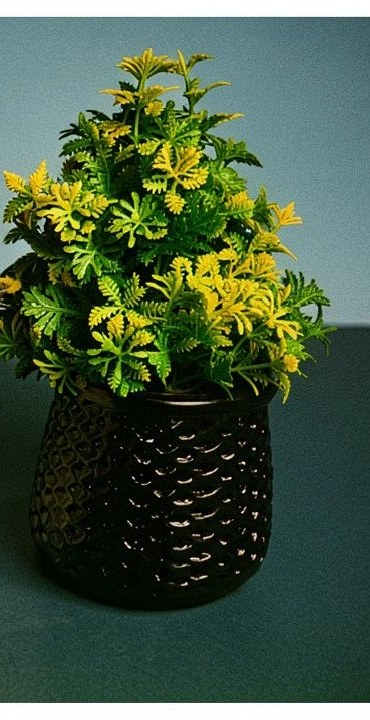
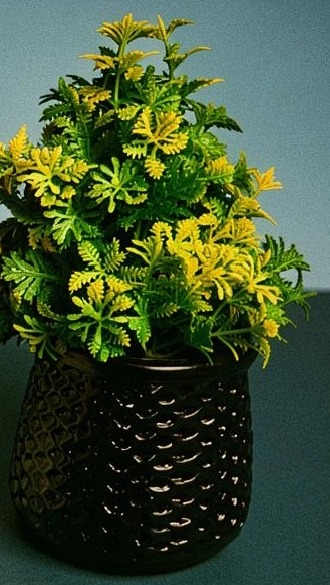
Trim catalog to the 4 real products, tighten crops, use real hero photo
- Remove all 18 placeholder products from data/products.ts; only
  Emerald Spike, Honey Petals, EverGreen Charm and the Trio Set
  remain (the only products with real photography).
- Re-crop the three individual plant photos tighter around each
  plant+pot so they fill the frame instead of showing excess
  background — the previous crops left too much empty space, which
  read as "zoomed out" once placed in the site's image containers.
- Replace the generated placeholder hero image with the actual
  customer-provided photo (hand holding a potted bonsai) and drop the
  two floating thumbnail cards that referenced now-removed products.

diff --git a/data/products.ts b/data/products.ts
@@ -2,277 +2,6 @@ import type { Product } from "@/lib/types";
 
 export const products: Product[] = [
   {
-    id: "p01",
-    slug: "monstera-deliciosa-floor-tree",
-    name: "Monstera Deliciosa Floor Tree",
-    category: "trees",
-    price: 149,
-    compareAtPrice: 189,
-    description:
-      "A statement-making faux Monstera with broad, hand-shaped split leaves on a natural wood-look stem. Brings instant jungle warmth to living rooms and offices.",
-    details: [
-      "UV-resistant, fade-free foliage",
-      "Weighted base for stability",
-      "Real-touch latex leaves",
-      "Indoor & covered outdoor use",
-    ],
-    dimensions: '48" H x 24" W, planter included',
-    badge: "Bestseller",
-    rating: 4.8,
-    reviewCount: 214,
-    imageVariant: 1,
-  },
-  {
-    id: "p02",
-    slug: "olive-tree-classic",
-    name: "Classic Olive Tree",
-    category: "trees",
-    price: 169,
-    description:
-      "Slender branches dressed in silver-green olive leaves and faux fruit clusters, set in a woven basket for a Mediterranean feel.",
-    details: [
-      "Hand-tied branches, fully shapeable",
-      "Weighted woven basket base",
-      "Fire-retardant materials",
-    ],
-    dimensions: '60" H x 20" W',
-    badge: "New",
-    rating: 4.7,
-    reviewCount: 98,
-    imageVariant: 2,
-  },
-  {
-    id: "p03",
-    slug: "fiddle-leaf-fig-tree",
-    name: "Fiddle Leaf Fig Tree",
-    category: "trees",
-    price: 179,
-    description:
-      "Large violin-shaped leaves on a sculptural multi-trunk frame — the design world's favorite faux tree, zero watering required.",
-    details: ["Bendable branches", "Textured trunk bark", "Matte-finish leaves"],
-    dimensions: '65" H x 26" W',
-    rating: 4.9,
-    reviewCount: 341,
-    imageVariant: 3,
-  },
-  {
-    id: "p04",
-    slug: "birch-tree-duo",
-    name: "Birch Tree Duo",
-    category: "trees",
-    price: 159,
-    description:
-      "A pair of slender faux birch trunks with soft green leaf clusters, perfect for flanking a doorway or sofa.",
-    details: ["Natural bark-textured trunks", "Set of 2", "Lightweight for easy styling"],
-    dimensions: '55" H each',
-    rating: 4.5,
-    reviewCount: 66,
-    imageVariant: 4,
-  },
-  {
-    id: "p05",
-    slug: "juniper-bonsai",
-    name: "Juniper Bonsai",
-    category: "bonsai",
-    price: 59,
-    description:
-      "A meticulously wired juniper bonsai with cascading branches over a glazed ceramic dish — quiet, sculptural calm for any desk.",
-    details: ["Hand-wired branch structure", "Glazed ceramic dish included", "Moss-covered base"],
-    dimensions: '14" H x 12" W',
-    badge: "Bestseller",
-    rating: 4.9,
-    reviewCount: 180,
-    imageVariant: 5,
-  },
-  {
-    id: "p06",
-    slug: "flowering-cherry-bonsai",
-    name: "Flowering Cherry Bonsai",
-    category: "bonsai",
-    price: 69,
-    description:
-      "Delicate faux cherry blossoms in soft blush pink along twisting branches, set in a matte stone-finish pot.",
-    details: ["Silk blossom clusters", "Textured trunk", "Stone-finish pot"],
-    dimensions: '16" H x 14" W',
-    rating: 4.6,
-    reviewCount: 52,
-    imageVariant: 6,
-  },
-  {
-    id: "p07",
-    slug: "pine-bonsai-windswept",
-    name: "Windswept Pine Bonsai",
-    category: "bonsai",
-    price: 64,
-    description:
-      "An artfully asymmetric pine silhouette that captures decades of traditional bonsai shaping, with zero maintenance.",
-    details: ["Asymmetric windswept form", "Fine needle detailing", "Weighted ceramic base"],
-    dimensions: '15" H x 18" W',
-    badge: "New",
-    rating: 4.7,
-    reviewCount: 41,
-    imageVariant: 7,
-  },
-  {
-    id: "p08",
-    slug: "orchid-phalaenopsis-white",
-    name: "White Phalaenopsis Orchid",
-    category: "flowering",
-    price: 45,
-    description:
-      "Elegant arching stems of pure white orchid blooms in a sleek ceramic pot — a refined centerpiece that never fades.",
-    details: ["Real-touch petals", "Bendable stems", "Ceramic pot included"],
-    dimensions: '24" H',
-    badge: "Bestseller",
-    rating: 4.8,
-    reviewCount: 267,
-    imageVariant: 8,
-  },
-  {
-    id: "p09",
-    slug: "peony-bouquet-blush",
-    name: "Blush Peony Bouquet",
-    category: "flowering",
-    price: 39,
-    description:
-      "Full, ruffled peony blooms in a soft blush tone, pre-arranged in a glass vase for an instant tablescape.",
-    details: ["Silk peony blooms", "Glass vase included", "Pre-arranged, ready to display"],
-    dimensions: '18" H',
-    rating: 4.6,
-    reviewCount: 88,
-    imageVariant: 9,
-  },
-  {
-    id: "p10",
-    slug: "hydrangea-arrangement",
-    name: "Garden Hydrangea Arrangement",
-    category: "flowering",
-    price: 42,
-    description:
-      "Lush clusters of faux hydrangea in soft sage and cream, arranged in a rustic ceramic urn.",
-    details: ["Multi-tone silk blooms", "Ceramic urn included", "UV-stable color"],
-    dimensions: '20" H',
-    rating: 4.5,
-    reviewCount: 37,
-    imageVariant: 10,
-  },
-  {
-    id: "p11",
-    slug: "pothos-trailing-basket",
-    name: "Trailing Pothos Basket",
-    category: "hanging",
-    price: 35,
-    description:
-      "Long, cascading pothos vines with variegated leaves in a woven hanging basket — instant life for shelves and ceiling hooks.",
-    details: ["48in trailing vine length", "Woven hanging basket", "Bendable vine wire core"],
-    dimensions: '48" trail length',
-    badge: "Bestseller",
-    rating: 4.8,
-    reviewCount: 156,
-    imageVariant: 11,
-  },
-  {
-    id: "p12",
-    slug: "string-of-pearls-hanging",
-    name: "String of Pearls",
-    category: "hanging",
-    price: 29,
-    description:
-      "Delicate bead-like faux succulent strands that spill elegantly from a minimalist ceramic hanging planter.",
-    details: ["Bead-textured strands", "Ceramic hanging planter", "36in trail length"],
-    dimensions: '36" trail length',
-    rating: 4.7,
-    reviewCount: 73,
-    imageVariant: 12,
-  },
-  {
-    id: "p13",
-    slug: "fern-hanging-basket",
-    name: "Boston Fern Hanging Basket",
-    category: "hanging",
-    price: 32,
-    description:
-      "Feathery, full fern fronds in a classic woven basket — the porch-and-patio favorite, now maintenance-free.",
-    details: ["Dense feathery fronds", "Woven basket included", "Fade-resistant fibers"],
-    dimensions: '22" W',
-    badge: "New",
-    rating: 4.6,
-    reviewCount: 44,
-    imageVariant: 13,
-  },
-  {
-    id: "p14",
-    slug: "echeveria-succulent-trio",
-    name: "Echeveria Succulent Trio",
-    category: "succulents",
-    price: 24,
-    description:
-      "Three rosette succulents in soft green and blush tones, each in its own mini terracotta pot — perfect for windowsills.",
-    details: ["Set of 3", "Mini terracotta pots", "Real-touch textured leaves"],
-    dimensions: '4" H each',
-    badge: "Bestseller",
-    rating: 4.9,
-    reviewCount: 199,
-    imageVariant: 14,
-  },
-  {
-    id: "p15",
-    slug: "aloe-vera-potted",
-    name: "Potted Aloe Vera",
-    category: "succulents",
-    price: 22,
-    description:
-      "Crisp, architectural aloe leaves in a matte concrete-finish pot — clean lines for a modern desk or console.",
-    details: ["Matte concrete-finish pot", "Rigid architectural leaves", "Compact footprint"],
-    dimensions: '10" H',
-    rating: 4.5,
-    reviewCount: 61,
-    imageVariant: 15,
-  },
-  {
-    id: "p16",
-    slug: "rattan-cachepot-large",
-    name: "Large Rattan Cachepot",
-    category: "planters",
-    price: 38,
-    description:
-      "Hand-woven rattan sleeve to dress up any plastic nursery pot — the finishing touch for your favorite faux greenery.",
-    details: ["Hand-woven natural rattan", "Fits 10-12in nursery pots", "Indoor use"],
-    dimensions: '12" H x 13" W',
-    rating: 4.6,
-    reviewCount: 29,
-    imageVariant: 16,
-  },
-  {
-    id: "p17",
-    slug: "ceramic-planter-fluted",
-    name: "Fluted Ceramic Planter",
-    category: "planters",
-    price: 34,
-    description:
-      "A softly fluted ceramic planter in warm terracotta glaze, sized for bonsai, succulents or small florals.",
-    details: ["Glazed stoneware ceramic", "Drainage-hole free design", "Fits most 6-8in inserts"],
-    dimensions: '8" H x 9" W',
-    badge: "New",
-    rating: 4.7,
-    reviewCount: 35,
-    imageVariant: 17,
-  },
-  {
-    id: "p18",
-    slug: "stone-finish-urn-planter",
-    name: "Stone-Finish Urn Planter",
-    category: "planters",
-    price: 46,
-    description:
-      "A weighty, weathered-stone finish urn that grounds large floor trees with old-world elegance.",
-    details: ["Lightweight faux-stone finish", "Weather-resistant coating", "Fits large floor trees"],
-    dimensions: '16" H x 15" W',
-    rating: 4.4,
-    reviewCount: 18,
-    imageVariant: 18,
-  },
-  {
     id: "p19",
     slug: "emerald-spike",
     name: "Emerald Spike",

diff --git a/components/Hero.tsx b/components/Hero.tsx
@@ -1,9 +1,9 @@
 "use client";
 
 import Link from "next/link";
+import Image from "next/image";
 import { motion } from "framer-motion";
 import { ArrowRight, Sparkle } from "lucide-react";
-import ProductImage from "./ProductImage";
 
 export default function Hero() {
   return (
@@ -90,36 +90,13 @@ export default function Hero() {
           className="relative mx-auto w-full max-w-md md:max-w-none"
         >
           <div className="relative aspect-square overflow-hidden rounded-[2rem] shadow-2xl shadow-forest-dark/25 ring-1 ring-cream/40">
-            <ProductImage
-              category="trees"
-              imageVariant={1}
-              className="h-full w-full"
-              iconClassName="w-1/2 h-1/2"
-            />
-          </div>
-          <div
-            className="animate-float-slow absolute -bottom-6 -left-6 hidden aspect-square w-32 overflow-hidden rounded-2xl border-4 border-cream shadow-xl sm:block"
-            style={{ ["--float-rotate" as string]: "-4deg" }}
-          >
-            <ProductImage
-              category="bonsai"
-              imageVariant={5}
-              className="h-full w-full"
-              iconClassName="w-1/2 h-1/2"
-            />
-          </div>
-          <div
-            className="animate-float-slow absolute -right-4 -top-6 hidden aspect-square w-24 overflow-hidden rounded-2xl border-4 border-cream shadow-xl sm:block"
-            style={{
-              ["--float-rotate" as string]: "5deg",
-              animationDelay: "1.4s",
-            }}
-          >
-            <ProductImage
-              category="flowering"
-              imageVariant={8}
-              className="h-full w-full"
-              iconClassName="w-1/2 h-1/2"
+            <Image
+              src="/products/hero-bonsai.jpg"
+              alt="Hand-holding a potted faux bonsai tree"
+              fill
+              sizes="(min-width: 768px) 50vw, 100vw"
+              className="object-cover"
+              priority
             />
           </div>
           <div className="absolute -left-3 top-1/3 hidden rounded-2xl bg-cream px-4 py-3 shadow-xl sm:flex sm:flex-col sm:items-center">